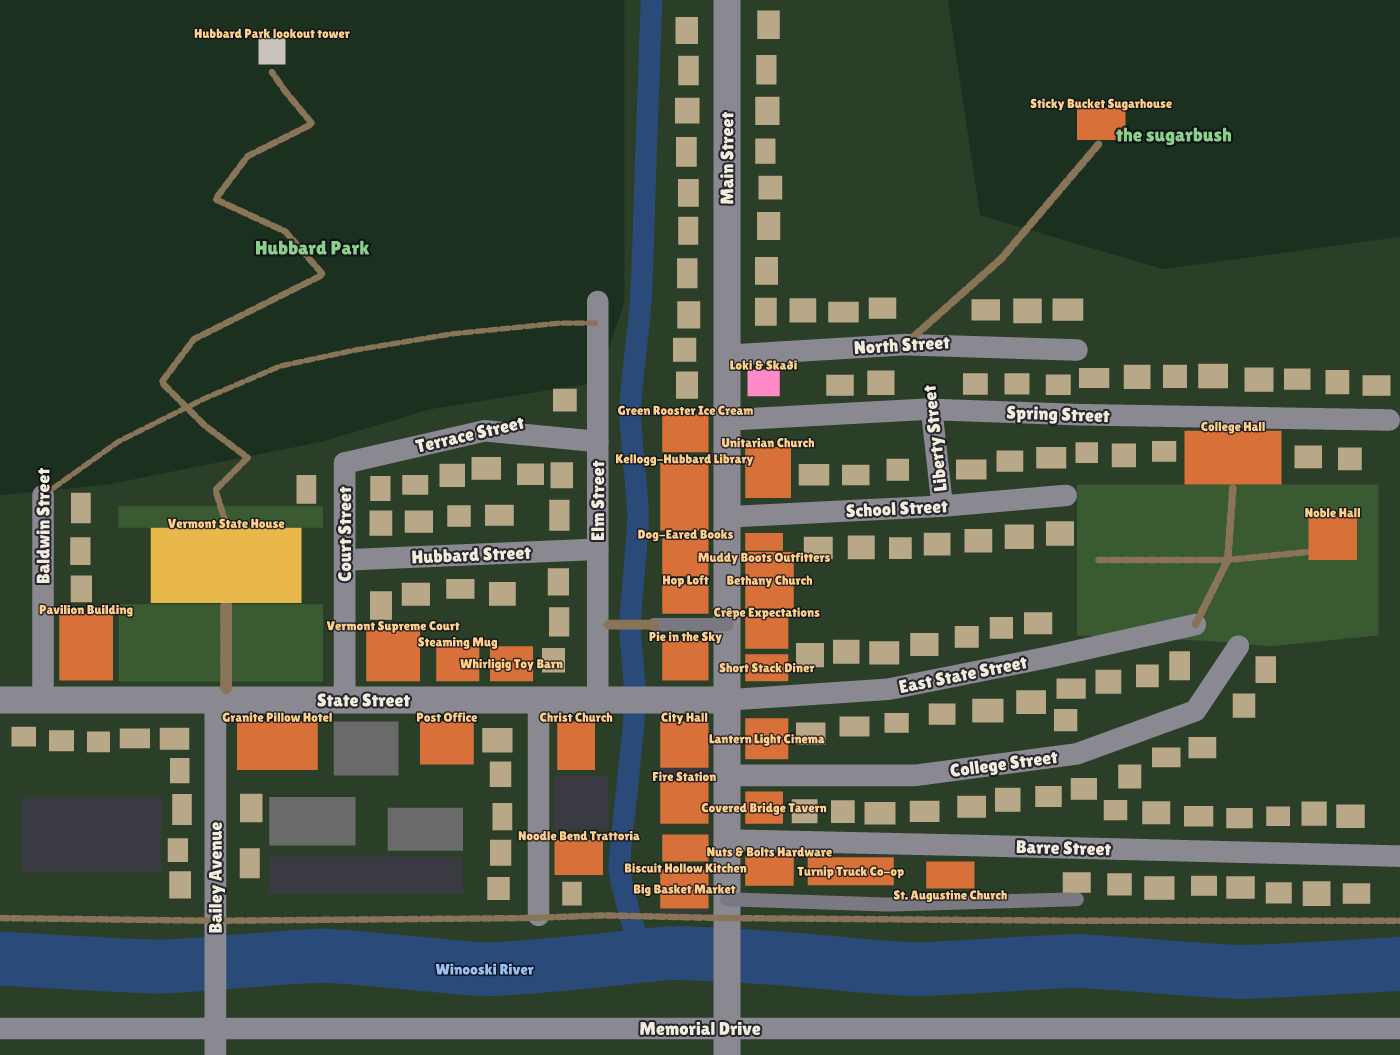
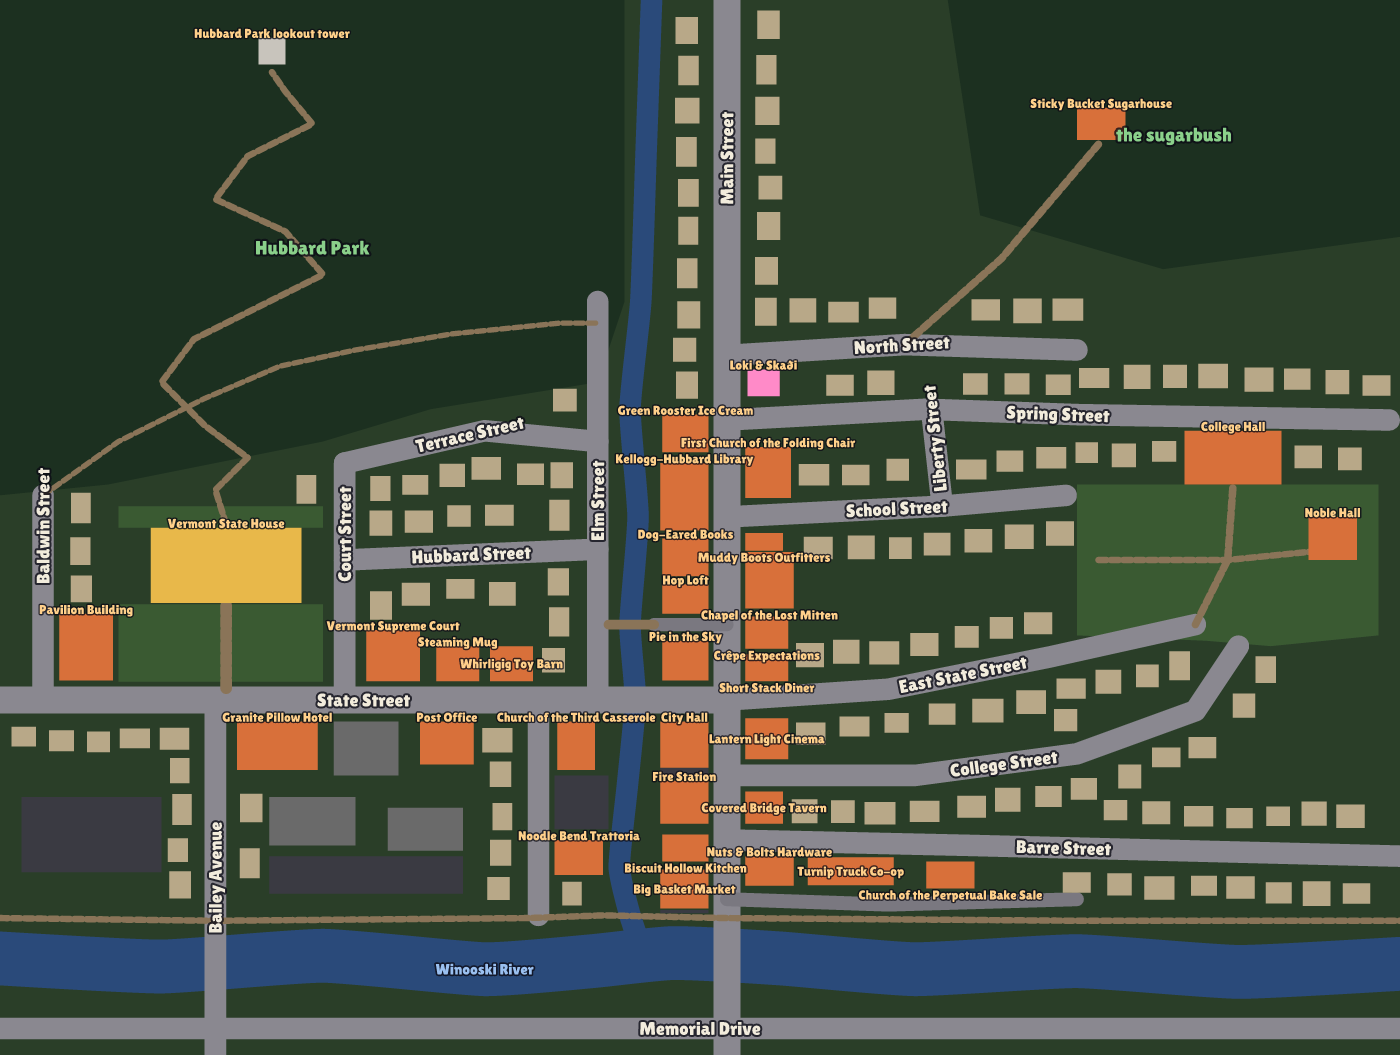
Make the churches fictional, with comical names
The four churches used the names of real Montpelier congregations. They
are now the Church of the Third Casserole, the First Church of the Folding
Chair, the Chapel of the Lost Mitten and the Church of the Perpetual Bake
Sale, with door lines to match. The jokes are about potlucks, chairs and
roof funds, not about anybody's faith.

The title screen, README, provenance notes and town file now say the
churches are made up, and the map and State Street pictures are redrawn.

Claude-Session: https://claude.ai/code/session_018DNkjmSPgsoJScWBS1NxC3

diff --git a/src/app/screens.rs b/src/app/screens.rs
@@ -117,9 +117,9 @@ pub fn decorate(app: &App, m: &mut FrameModel) {
                 Line::new("A raccoon has worked out that people give free candy", Style::Normal),
                 Line::new("to anybody in a costume. It has found a bedsheet.", Style::Normal),
                 Line::new("", Style::Normal),
-                Line::new("A work of fiction and gentle parody. The shops are made up;", Style::Dim),
-                Line::new("any likeness to a real business or person is coincidence.", Style::Dim),
-                Line::new("Not affiliated with Montpelier or the State of Vermont.", Style::Dim),
+                Line::new("A work of fiction and gentle parody. The shops and churches", Style::Dim),
+                Line::new("are made up; any likeness to a real one or a real person", Style::Dim),
+                Line::new("is coincidence. Not affiliated with Montpelier or Vermont.", Style::Dim),
                 Line::new("", Style::Normal),
             ];
             for (name, on) in app.caps.summary() {

diff --git a/README.md b/README.md
@@ -143,7 +143,7 @@ maple farmers, and the neighbours, friendly or suspicious or oblivious.
 **The town** is Montpelier, from the State House to the college, between the
 hills on both sides of Main Street down to the Winooski River: the gold
 dome, the Kellogg-Hubbard Library, City Hall and the fire station, the
-churches, the North Branch and the Langdon Street footbridge, the bike
+Chapel of the Lost Mitten, the North Branch and the Langdon Street footbridge, the bike
 path, the co-op on Stone Cutters Way, painted cows, flags (and a few Green
 Mountain Boys flags) on State Street, and a Main Street of made-up shops
 (Dog-Eared Books, the Hop Loft, Pie in the Sky, the Lantern Light Cinema,
@@ -154,11 +154,11 @@ the stone lookout tower. Somebody is up there.
 ![The trail up through Hubbard Park to the lookout tower](docs/images/hubbard-park.png)
 
 *Silkie Loophole is a work of fiction and gentle parody. The shops,
-restaurants and hotels in it are invented, with invented names; none of
-them stands for a real business, and nothing here is meant to say anything
-about any real business or person. Public places (the State House, the
-library, City Hall, the fire station, the churches, the college) appear as
-themselves, affectionately. The game is not affiliated with or endorsed by
+restaurants, hotels and churches in it are invented, with invented names;
+none of them stands for a real business or congregation, and nothing here
+is meant to say anything about any real business, congregation or person.
+Public places (the State House, the library, City Hall, the fire station,
+the college) appear as themselves, affectionately. The game is not affiliated with or endorsed by
 the City of Montpelier, the State of Vermont or anybody else in it.*
 
 The evening runs from half past five to half past nine. Then it is

diff --git a/assets/PROVENANCE.md b/assets/PROVENANCE.md
@@ -38,10 +38,10 @@ other game.
 
 `src/gfx/scenery.rs` and `src/gfx/minimap.rs` draw the town from the town
 file: original. The town is Montpelier, Vermont, drawn from memory and
-simplified. Public places keep their own names; shops, restaurants and
-hotels are invented, with names chosen to be well away from any real
-business's, and their jokes are not about real businesses or people. The
-game is a work of fiction and gentle parody, and says so on its title
+simplified. Public places keep their own names; shops, restaurants, hotels
+and churches are invented, with names chosen to be well away from any real
+business's or congregation's, and their jokes are not about real businesses,
+congregations or people. The game is a work of fiction and gentle parody, and says so on its title
 screen.
 
 ## Typeface
